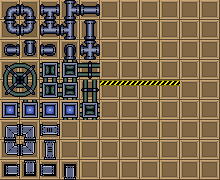
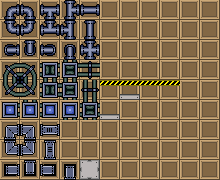
Implement yellow-black tapes

Changed region(s): [[0.3545, 0.8889, 0.4636, 1.0], [0.5455, 0.5, 0.6545, 0.5556], [0.4364, 0.6111, 0.5455, 0.6667]]

diff --git a/PatternDemo/Program.cs b/PatternDemo/Program.cs
@@ -62,6 +62,7 @@ namespace PatternDemo
             Topology topology, 
             List<Rule> wallRules, 
             List<Rule> floorRules,
+            List<Rule> ceilRules,
             List<Rule?[,]> wallBigTiles,
             List<Rule?[,]> floorBigTiles)
         {
@@ -70,7 +71,7 @@ namespace PatternDemo
             
             foreach (var node in topology.Where(n => !n.IsDefined()))
             {
-                possibilities[node] = new List<Rule>(SelectRuleSet(node, wallRules, floorRules));
+                possibilities[node] = new List<Rule>(SelectRuleSet(node, wallRules, floorRules, ceilRules));
             }
 
             if (wallBigTiles.Any())
@@ -123,18 +124,18 @@ namespace PatternDemo
                         {
                             foreach (var n in topology.Where(n => !n.IsDefined()))
                             {
-                                possibilities[n] = new List<Rule>(SelectRuleSet(n, wallRules, floorRules)); 
+                                possibilities[n] = new List<Rule>(SelectRuleSet(n, wallRules, floorRules, ceilRules)); 
                             }
 
                             forRecalculation.Clear();
                             break;
                         }
 
-                        possibilities[node] = new List<Rule>(SelectRuleSet(node, wallRules, floorRules));
+                        possibilities[node] = new List<Rule>(SelectRuleSet(node, wallRules, floorRules, ceilRules));
 
                         foreach (var neighbour in node.Neighbours.Where(n => !n.IsDefined()))
                         {
-                            possibilities[neighbour] = new List<Rule>(SelectRuleSet(neighbour, wallRules, floorRules));
+                            possibilities[neighbour] = new List<Rule>(SelectRuleSet(neighbour, wallRules, floorRules, ceilRules));
                         }
 
                         continue;
@@ -186,7 +187,7 @@ namespace PatternDemo
             Dictionary<TopologyNode, List<Rule>> possibilities, 
             List<Rule?[,]> bigTiles)
         {
-            int margin = 1;
+            int margin = 2;
             var walls = topology.ExtractXyGroups();
             walls.AddRange(topology.ExtractYzGroups());
 
@@ -198,8 +199,11 @@ namespace PatternDemo
             Dictionary<TopologyNode, List<Rule>> possibilities,
             List<Rule?[,]> bigTiles)
         {
-            int margin = 0;
-            PlaceBigTiles(possibilities, topology.ExtractXzGroups(), bigTiles, margin);
+            int margin = 1;
+            PlaceBigTiles(possibilities, topology
+                .ExtractXzGroups()
+                .Where(g => g.Enumerate().First(n => n != null)!.Face.GetNormal().Y < 0)
+                .ToList(), bigTiles, margin);
         }
 
         public static void PlaceBigTiles(
@@ -277,7 +281,11 @@ namespace PatternDemo
             return avaliablePlaces;
         }
 
-        public static List<Rule> SelectRuleSet(TopologyNode node, List<Rule> wallRules, List<Rule> floorRules)
+        public static List<Rule> SelectRuleSet(
+            TopologyNode node, 
+            List<Rule> wallRules, 
+            List<Rule> floorRules,
+            List<Rule> ceilRules)
         {
             switch (node.Face.GetFaceOrientation())
             {
@@ -285,7 +293,8 @@ namespace PatternDemo
                 case FaceOrientation.YZ:
                     return wallRules;
                 case FaceOrientation.XZ:
-                    return floorRules;
+                    var normal = node.Face.GetNormal();
+                    return (normal.Y > 0) ? ceilRules : floorRules;
                 default:
                     throw new ArgumentOutOfRangeException();
             }
@@ -361,9 +370,12 @@ namespace PatternDemo
 
             var wallBigTiles = RulesLoader.ReadBigTiles("Content/Samples/WallBigTilesLogical.png", "Content/Samples/WallBigTilesDetailed.png");
             var floorBigTiles = RulesLoader.ReadBigTiles("Content/Samples/FloorBigTilesLogical.png", "Content/Samples/FloorBigTilesDetailed.png");
+            //var wallBigTiles = new List<Rule?[,]>();
+            //var floorBigTiles = new List<Rule?[,]>();
             var wallRules = RulesLoader.CreateRules("Content/Samples/1/WallLogical.png", "Content/Samples/1/WallDetailed.png");
             var floorRules = RulesLoader.CreateRules("Content/Samples/1/FloorLogical.png", "Content/Samples/1/FloorDetailed.png");
-            var collapsed = Wfc(topology, wallRules, floorRules, wallBigTiles, floorBigTiles);
+            var ceilRules = RulesLoader.CreateRules("Content/Samples/1/CeilLogical.png", "Content/Samples/1/CeilDetailed.png");
+            var collapsed = Wfc(topology, wallRules, floorRules, ceilRules, wallBigTiles, floorBigTiles);
 
             var textureSize = DefineTextureSize(quadModel.Meshes[0]);
             var detailedTextureData = TextureCreator.CreateDetailedTexture(topology, collapsed, textureSize);

diff --git a/MeshTopology/MeshTopologyHelper.cs b/MeshTopology/MeshTopologyHelper.cs
@@ -228,6 +228,13 @@ namespace MeshTopology
             return groups;
         }
 
+        public static Vector3 GetNormal(this Face face)
+        {
+            var a = (face[1].Position - face[0].Position).Normalized();
+            var b = (face[2].Position - face[0].Position).Normalized();
+            return Vector3.Cross(a, b);
+        }
+
         private static (Vector3 Min, Vector3 Max) GetMinMaxXy(List<TopologyNode> group)
         {
             var minX = group[0].Face[0].Position.X;
@@ -322,13 +329,6 @@ namespace MeshTopology
             }
 
             return group.ToList();
-        }
-
-        private static Vector3 GetNormal(this Face face)
-        {
-            var a = (face[1].Position - face[0].Position).Normalized();
-            var b = (face[2].Position - face[0].Position).Normalized();
-            return Vector3.Cross(a, b);
         }
     }
 }

diff --git a/PatternDemo/MeshHelper.cs b/PatternDemo/MeshHelper.cs
@@ -23,7 +23,6 @@ namespace PatternDemo
                 var (positions, normals, uvs) = mesh.ExtractComponents(i, polyVerticesCount);
                 var positionCentroid = positions.Aggregate((a, b) => a + b) / positions.Count;
                 var uvsCentroid = uvs.Aggregate((a, b) => a + b) / uvs.Count;
-                bool isHorisontal = IsHorisontal(positions);
 
                 var a = (positions[1] - positions[0]).Normalized();
                 var b = (positions[2] - positions[0]).Normalized();
